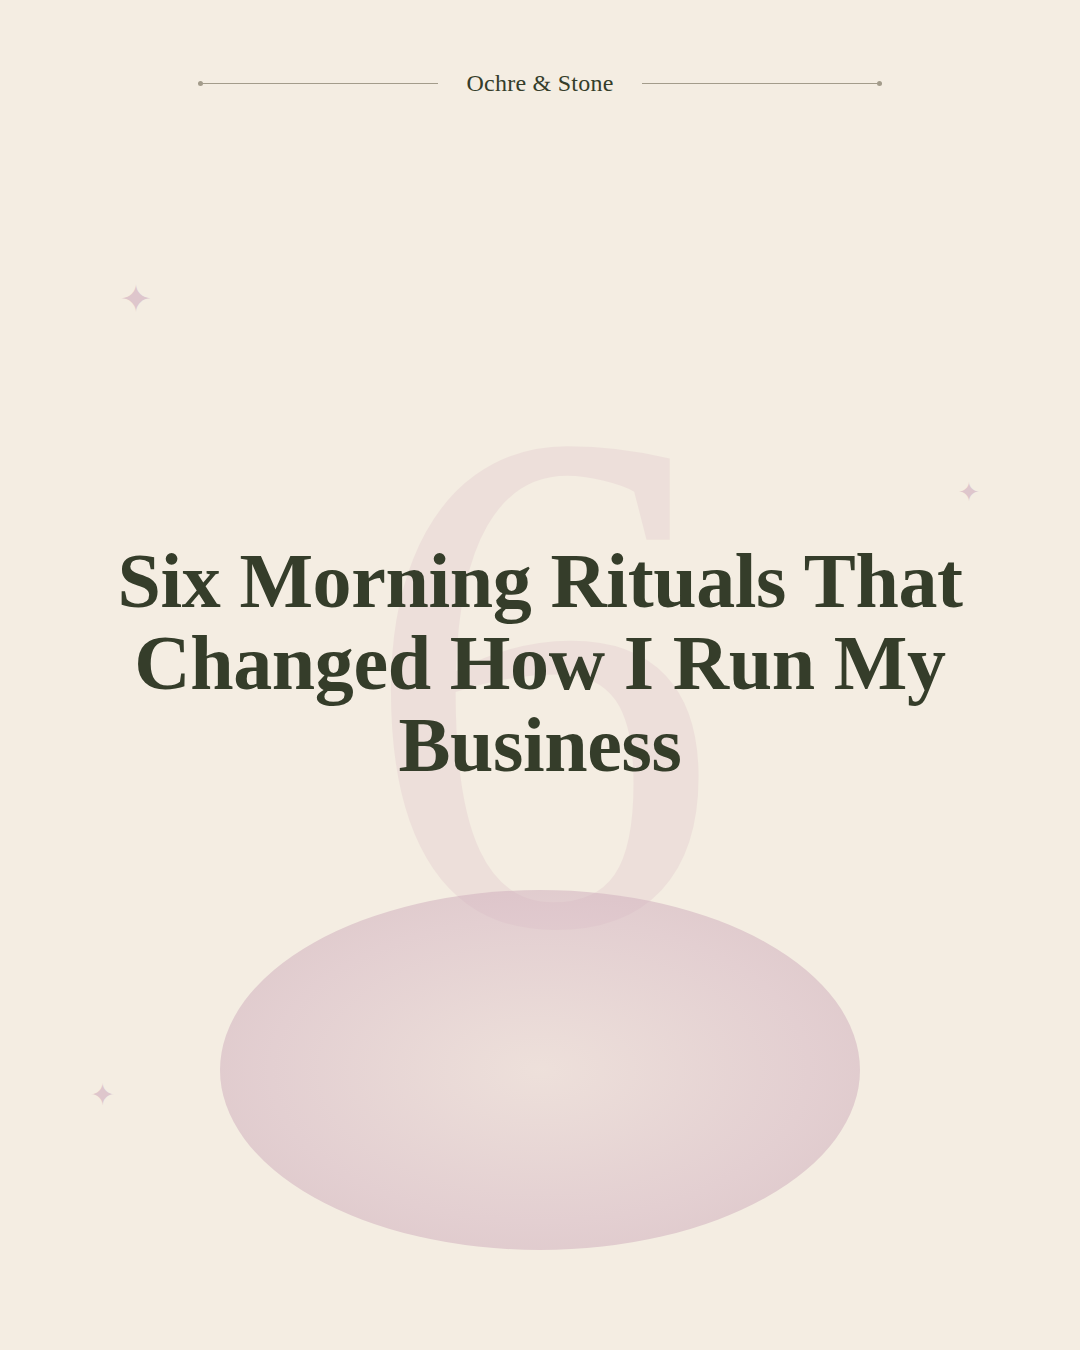
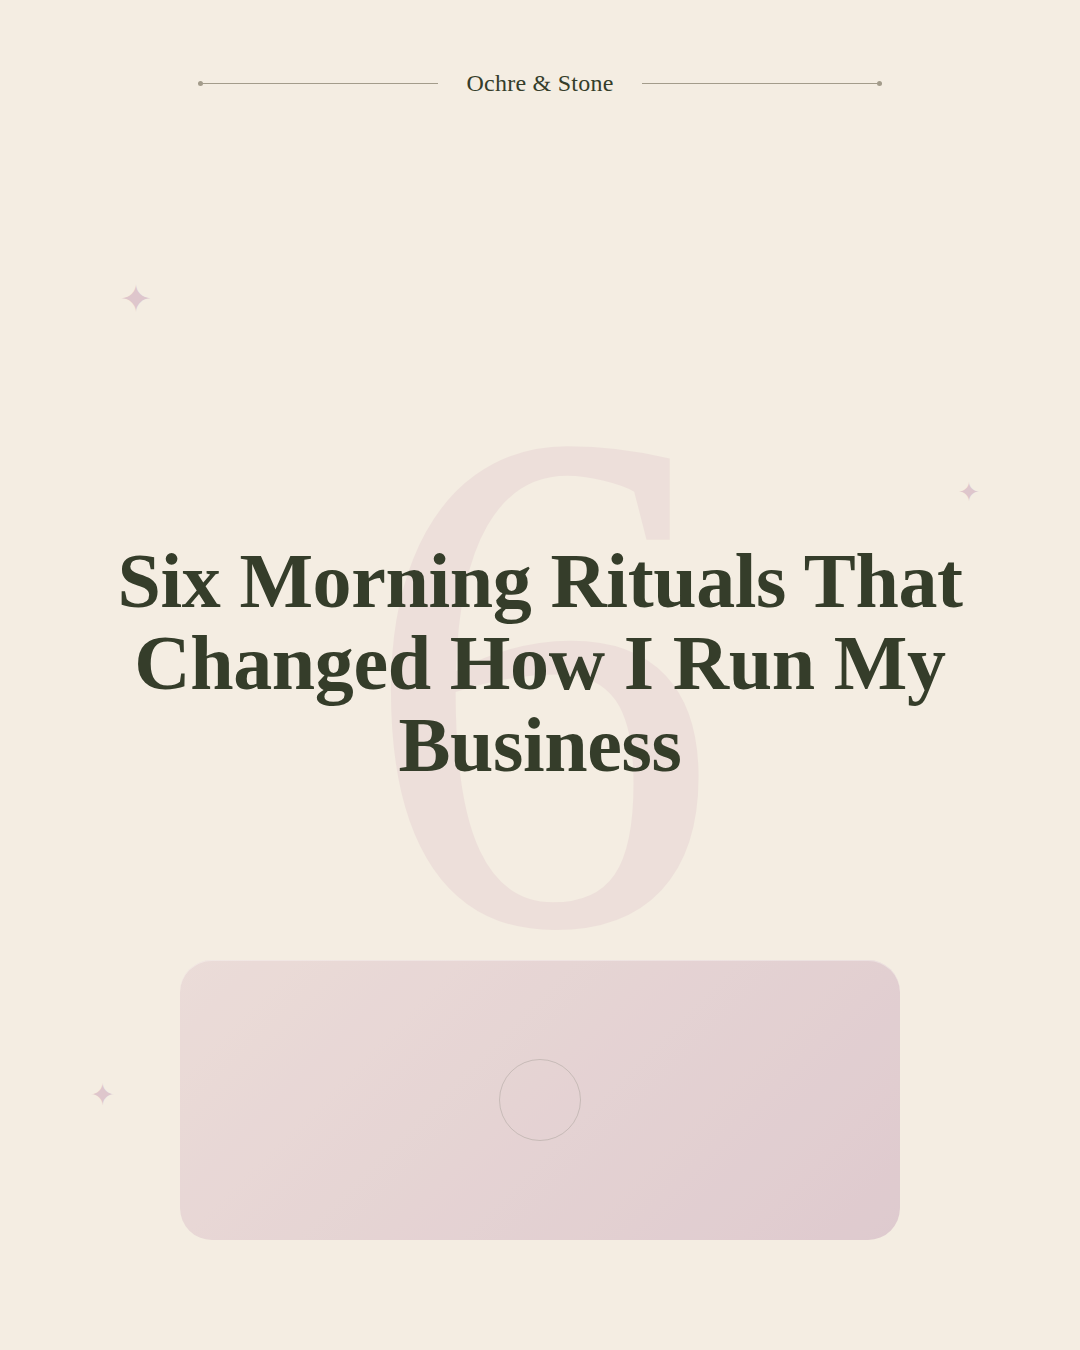
fix(cover-beige-serif): replace anatomical ellipse with rounded photo-frame placeholder

diff --git a/_extracted/carousel-factory/layouts/cover-beige-serif/template.html b/_extracted/carousel-factory/layouts/cover-beige-serif/template.html
@@ -62,14 +62,26 @@
     z-index: 2;
   }
 
-  /* Bottom decorative dotted-line + hero placeholder */
+  /* Bottom hero frame — rounded card. Stand-in for the original Canva
+   * template's circular masked photo. Card-shape reads as decoration / frame,
+   * not as anything anatomical. */
   .hero-frame {
-    position: absolute; bottom: 100px; left: 50%;
+    position: absolute; bottom: 110px; left: 50%;
     transform: translateX(-50%);
-    width: 640px; height: 360px;
-    border-radius: 320px / 180px;
-    background: radial-gradient(ellipse at center, #e8d5d4 0%, #d5b6c3 60%, #c6a3b1 100%);
-    opacity: 0.55;
+    width: 720px; height: 280px;
+    border-radius: 32px;
+    background: linear-gradient(135deg, #e8d5d4 0%, #d6bcc7 100%);
+    opacity: 0.7;
+    box-shadow: inset 0 1px 0 rgba(255,255,255,0.4);
+  }
+  /* Tiny brand monogram inside the frame, faintly */
+  .hero-frame::after {
+    content: "";
+    position: absolute; top: 50%; left: 50%;
+    transform: translate(-50%, -50%);
+    width: 80px; height: 80px;
+    border-radius: 50%;
+    border: 1.5px solid rgba(53, 61, 42, 0.25);
   }
 </style>
 </head>
